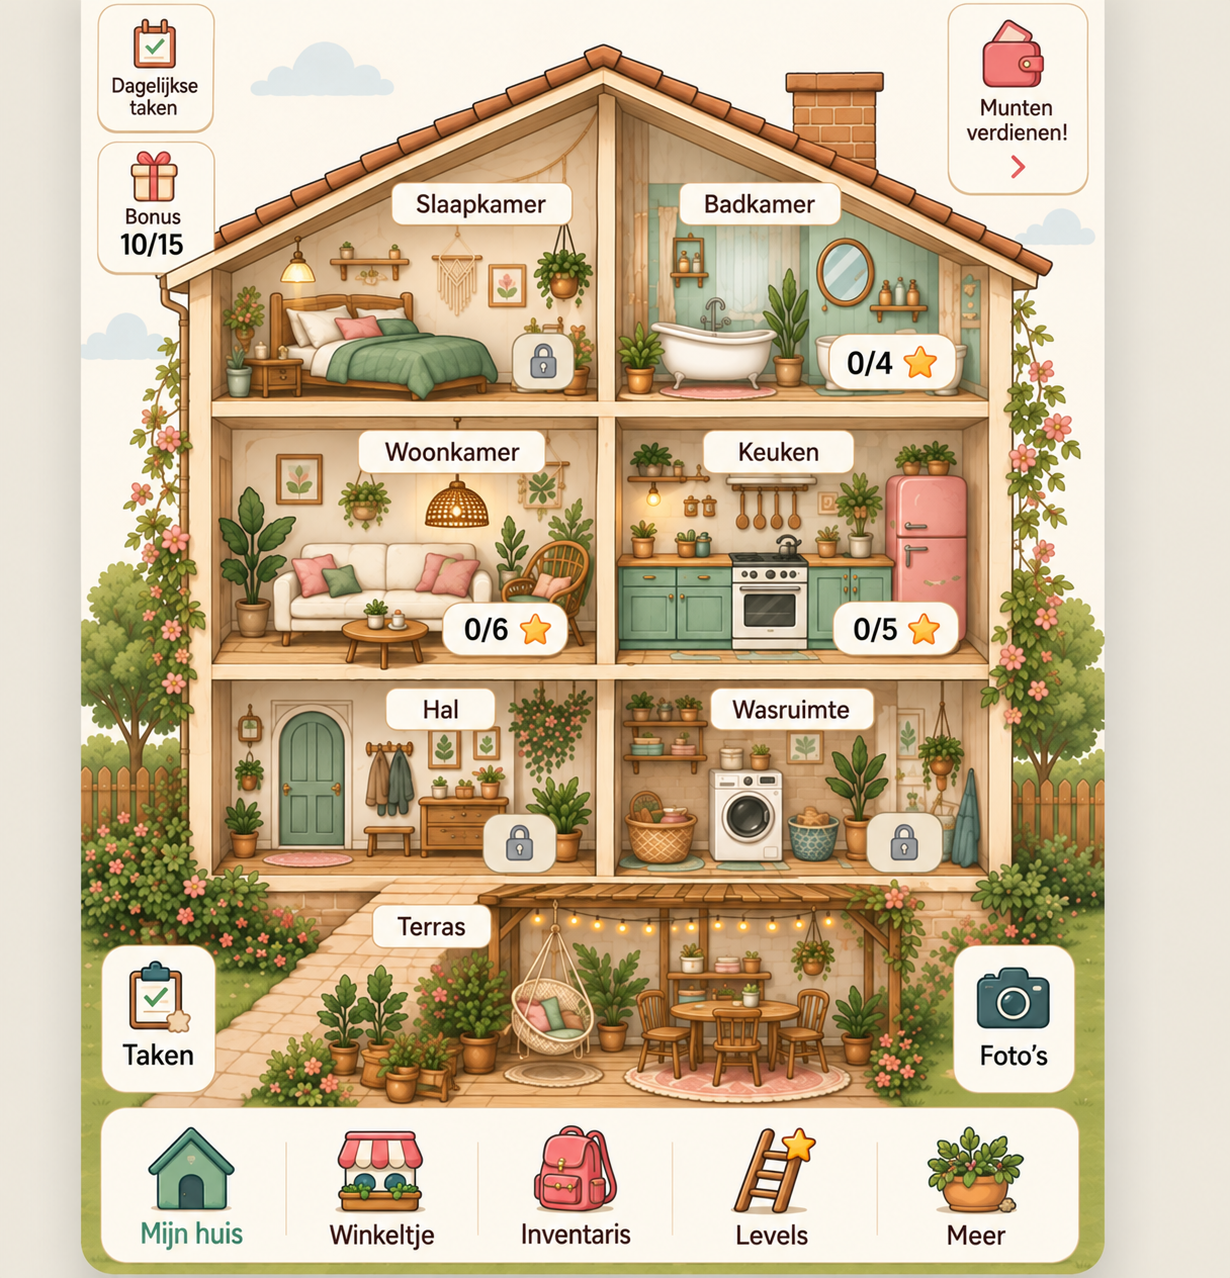
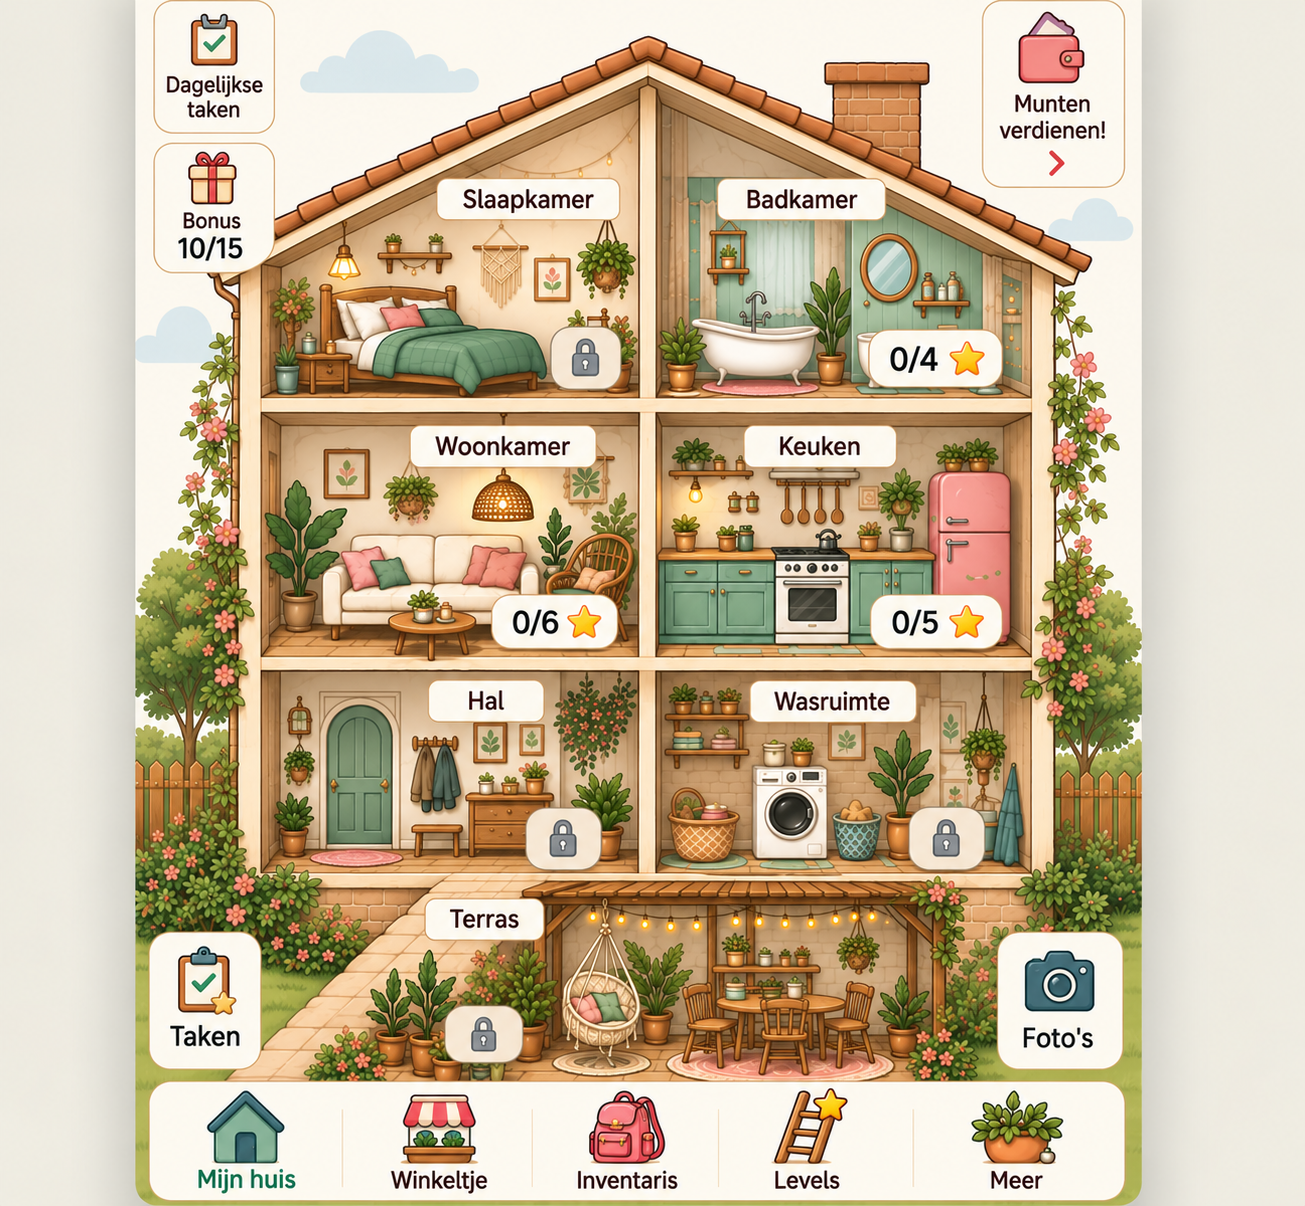
Add files via upload

diff --git a/style.css b/style.css
@@ -988,24 +988,7 @@
 .placed-furniture{object-fit:contain !important;}
 .inventory-card img{background:#fff8ec !important;}
 
-/* Definitieve dynamische kamertellers: volledige badge vervangt de vaste badge in de illustratie. */
-.house-task-badge{
-  position:absolute;z-index:9;transform:translate(-50%,-50%);
-  width:11.7%;height:4.1%;box-sizing:border-box;
-  display:flex;align-items:center;justify-content:center;
-  border:1.5px solid #dfbd82;border-radius:15px;
-  background:#fff8e8;color:#2f2118;
-  font-family:Arial,sans-serif;font-size:16px;font-weight:700;
-  box-shadow:0 1px 2px rgba(70,45,20,.12);pointer-events:none;
-}
-.house-task-badge::after{
-  content:"★";color:#ffb52d;font-size:19px;margin-left:6px;
-  -webkit-text-stroke:.5px #e78c16;
-}
-.badge-bathroom{left:74.3%;top:28.2%}
-.badge-living{left:43.2%;top:49.2%}
-.badge-kitchen{left:74.3%;top:49.2%}
-@media(max-width:520px){
-  .house-task-badge{font-size:14px;border-radius:12px}
-  .house-task-badge::after{font-size:16px;margin-left:4px}
-}
+.house-room-counter{position:absolute;z-index:10;transform:translate(-50%,-50%);width:12.2%;height:4.25%;box-sizing:border-box;display:flex;align-items:center;justify-content:center;border:1.4px solid #dfbd82;border-radius:15px;background:#fff8e8;color:#2f2118;font-family:Arial,sans-serif;font-size:16px;font-weight:700;line-height:1;box-shadow:0 1px 2px rgba(70,45,20,.12);pointer-events:none}
+.house-room-counter::after{content:"★";margin-left:6px;color:#ffb52d;font-size:19px;-webkit-text-stroke:.45px #e78c16}
+.counter-bathroom{left:76.9%;top:29.55%}.counter-living{left:45.7%;top:51.45%}.counter-kitchen{left:77.1%;top:51.45%}
+@media(max-width:520px){.house-room-counter{font-size:14px;border-radius:12px}.house-room-counter::after{font-size:16px;margin-left:4px}}

diff --git a/app.js b/app.js
@@ -158,11 +158,10 @@ function roomDone(room){
   return (tasksByRoom[room]||[]).reduce((n,_,i)=>n+(taskIsDone(room,i)?1:0),0);
 }
 
-function renderHouseTaskBadges(){
-  document.querySelectorAll('[data-house-task]').forEach(el=>{
-    const room=el.dataset.houseTask;
+function renderHouseRoomCounters(){
+  document.querySelectorAll('[data-house-counter]').forEach(el=>{
+    const room=el.dataset.houseCounter;
     const total=(tasksByRoom[room]||[]).length;
-    el.firstChild && (el.firstChild.textContent='');
     el.textContent=`${roomDone(room)}/${total}`;
   });
 }
@@ -187,7 +186,7 @@ function renderCounters(){
  document.getElementById('homeLivingDone').textContent=roomDone('Woonkamer');
  document.getElementById('homeBonusCheck').classList.toggle('done',state.today>=15);
  renderBalls();
- renderHouseTaskBadges();
+ renderHouseRoomCounters();
 }
 
 

diff --git a/index.html b/index.html
@@ -13,9 +13,9 @@
   <div class="home-value home-bonus"><span class="today">10</span>/15</div>
   <div id="homeBonusCheck" class="home-bonus-check"></div>
   <div class="home-value home-living-count"><span id="homeLivingDone">0</span>/6</div>
-  <div class="house-task-badge badge-bathroom" data-house-task="Badkamer"></div>
-  <div class="house-task-badge badge-living" data-house-task="Woonkamer"></div>
-  <div class="house-task-badge badge-kitchen" data-house-task="Keuken"></div>
+  <div class="house-room-counter counter-bathroom" data-house-counter="Badkamer"></div>
+  <div class="house-room-counter counter-living" data-house-counter="Woonkamer"></div>
+  <div class="house-room-counter counter-kitchen" data-house-counter="Keuken"></div>
 
 
   <button class="hot bedroom" data-overview></button><button class="hot bathroom" data-overview></button>
